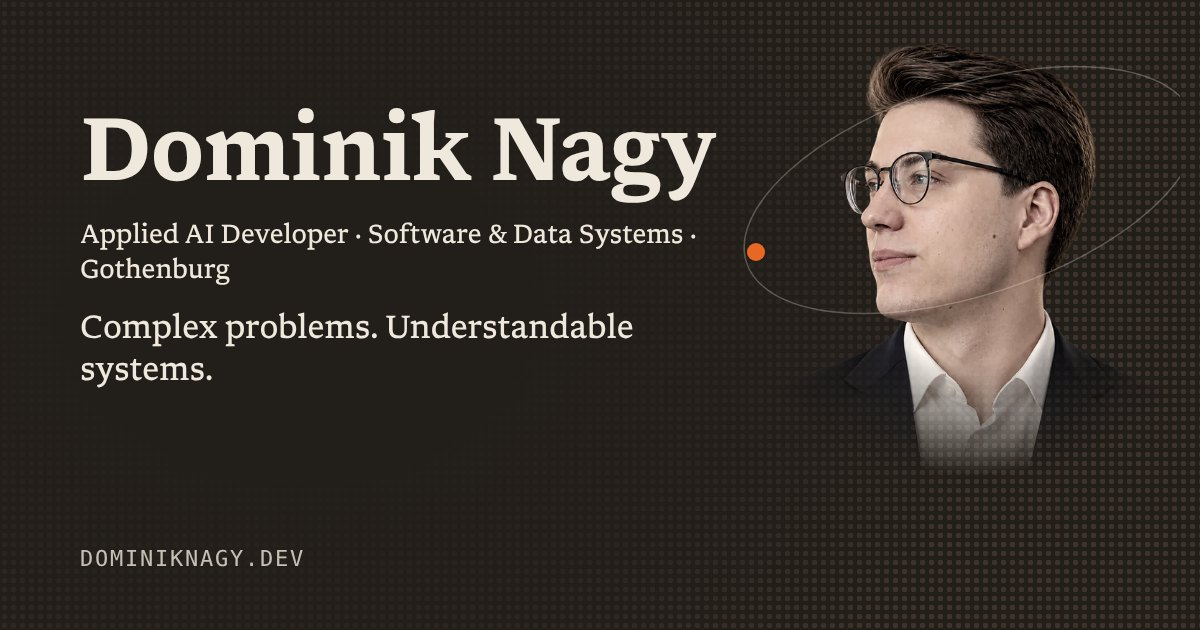
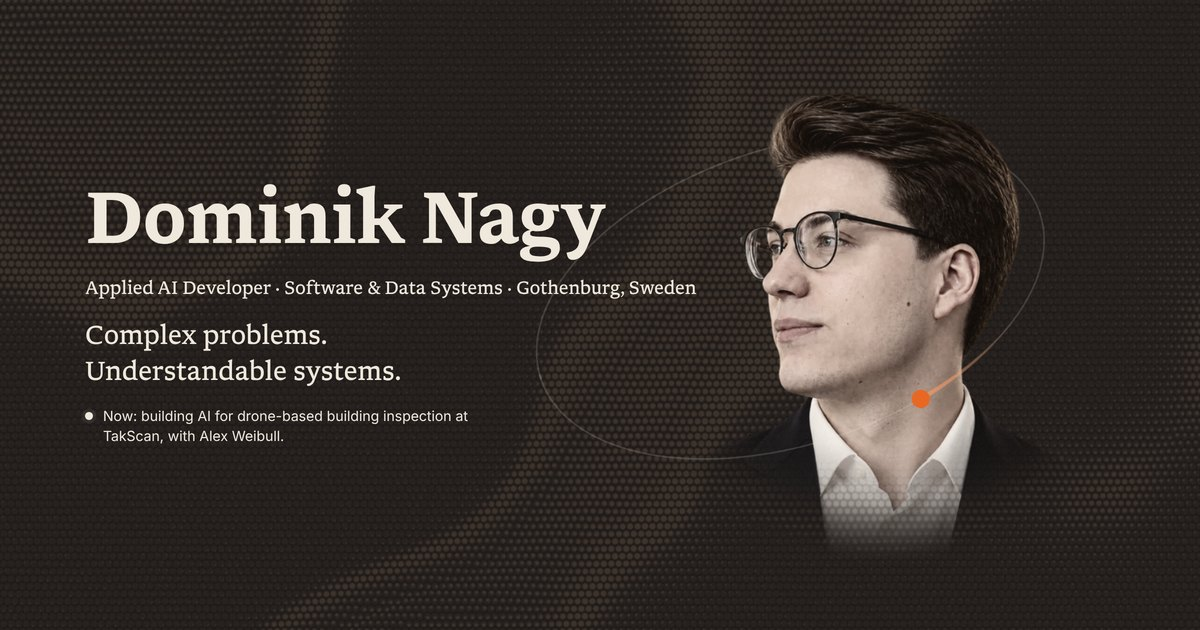
Add Hungarian, three-language switch and real hero share cards
- Hungarian locale at /hu/ with full home and case study translations
- EN/SV/HU language switch, hreflang alternates and sitemap entries
- Share cards rendered from the live hero (ink field, orbit trail, depth)
- Icon-only theme and pause buttons on narrow screens

Claude-Session: https://claude.ai/code/session_01H4Mz4xj1vCx7VJeMs2FG74

diff --git a/src/i18n/work.ts b/src/i18n/work.ts
@@ -204,8 +204,100 @@ const sv: CaseStudy[] = [
   },
 ];
 
-export const work: Record<Lang, CaseStudy[]> = { en, sv };
+const hu: CaseStudy[] = [
+  {
+    key: "inspection",
+    kind: "Most épül · TakScan · Bizalmas pilotprojekt",
+    title: "MI-támogatott épületvizsgálat",
+    lead: "A TakScan drónokkal dokumentálja az épületeket, felismeri a károkat, és helyzettel, mérettel és prioritással jelöli az eltéréseket, hogy a tulajdonosok időben léphessenek, és megelőzzék a nagyobb bajt. Én azt az MI-rendszert építem, amely a légi felvételeket vizsgáló szakértőket támogatja. Az MI segít, a szakértő dönt.",
+    notice: "Ez egy bizalmas pilotprojekt. Az alábbiak azt írják le, hogyan dolgozom rajta, nem azt, hogy mi épül. Személyesen, amennyire a titoktartás engedi, többet is elmondok.",
+    sections: [
+      { title: "A projekt", blocks: [{ type: "p", text: "A munka a teljes láncot lefedi, az érzékeny felvételek felelős kezelésétől a szakértők által naponta használt szoftverig, és most egy strukturált ellenőrzési szakaszba lép. Alex Weibull-lal együtt építem a TakScannél (Riventify AB)." }] },
+      { title: "Öt alapelv", blocks: [{ type: "cards", items: [
+        ["Ember a folyamatban", "Az MI segít, a szakértő dönt. Amit a rendszer javasol, az addig nem számít, amíg egy ember jóvá nem hagyta."],
+        ["Bizonyíték a feltételezés helyett", "Az eszközöket és módszereket az alternatívák egymás melletti tesztelésével választom, nem hírnév vagy divat alapján."],
+        ["Átláthatóság a bizonytalanságról", "A rendszer megmutatja, mennyire biztos, ahelyett hogy egyetlen válasz mögé rejtené a kételyt."],
+        ["Beépített adatvédelem", "Az érzékeny felvételek és ügyféladatok ellenőrzött, helyi környezetben maradnak, és sosem kerülnek a kód mellé."],
+        ["Kevesebbet építeni, többet újrahasznosítani", "A bevált nyílt forrású elemek előbb jönnek, mint az egyedi infrastruktúra, így az energia arra megy, ami valóban új."],
+      ] }] },
+      { title: "Hogyan szervezem a munkát", blocks: [{ type: "list", items: [
+        "Minden nagyobb változás egy leírt, dátumozott tervvel kezdődik: a cél, a lehetőségek, a kockázatok, és hogy mit érint. Amíg a tervet nem hagyják jóvá, semmi sem változik.",
+        "A rendszer jól elhatárolt részekre oszlik, világos szabályokkal arról, mi hova tartozik, így minden rész önállóan tesztelhető és cserélhető.",
+        "Semmi sem törlődik véglegesen. A kivezetett munka archívumba kerül, minden eltávolítás naplózva van, és bármelyik korábbi állapot visszaállítható.",
+        "A dokumentáció is eredmény: útmutatók, gyorsindítók, átadási jegyzetek és döntési feljegyzések, hogy bárki ott folytathassa, ahol a munka megállt.",
+        "Ha a munka szünetel, előbb leírom az ellenőrzött állapotot és a következő lépéseket.",
+        "A döntéseket az indoklásukkal együtt rögzítem, így a későbbi változtatások tudatosak, nem véletlenek.",
+        "Ami pénzbe kerül, közös erőforrást érint vagy nem visszafordítható, ahhoz kifejezett jóváhagyás kell.",
+      ] }] },
+      { title: "Okos költés", blocks: [{ type: "list", items: [
+        "A fizetős szolgáltatások keretet jelentenek, és csak ott használom őket, ahol valódi különbséget hoznak. Minden más helyben fut.",
+        "Amiért fizettünk, azt nem dobjuk ki. Az eredményeket megőrizzük és újrahasznosíthatóvá tesszük.",
+        "A napi munka elfut egy laptopon is; a nehéz feladatok erősebb gépre költözhetnek, de nem függnek tőle.",
+        "Minden összehasonlítás a pontosság mellett az időt és a költséget is mérlegeli, így a kompromisszumok láthatók.",
+      ] }] },
+      { title: "Minőségi elvárások", blocks: [{ type: "list", items: [
+        "Minden eredmény visszavezethető a szoftver, a szabályok és az adatok pontos verziójára, amelyek előállították.",
+        "A kód, a definíciók, a szabályok és az átnézett rekordok mind verziózottak, és a korábbi verziók megmaradnak.",
+        "A gépi javaslatok és az ember által megerősített tények sosem keverednek.",
+        "Automatizált tesztek fedik az adatokat és rekordokat kezelő részeket, ahol a hibákat később a legnehezebb megtalálni.",
+        "A fontos rekordokról minden írás előtt mentés készül, a beérkező anyagot pedig érkezéskor ellenőrizzük és naplózzuk.",
+        "A külső elemeknél bevezetés előtt ellenőrzöm, hogy a licencük megengedi-e a kereskedelmi felhasználást.",
+        "Kérem, hogy a saját ötleteimet is megkérdőjelezzék, és irányt váltok, ha a bizonyítékok ezt mutatják.",
+      ] }] },
+      { title: "MI-ágensek irányítása csapatként", blocks: [{ type: "p", text: "Az MI-alapú kódoló ágenseket fejlesztőcsapatként irányítom, állandó szabályokkal az adatvédelemről, a törlésekről, a jóváhagyásokról és a dokumentációról. Így egyetlen ember is vihet egy ekkora projektet, miközben minden döntés a kezében marad." }] },
+    ],
+    limits: { title: "Ami bizalmas marad", text: "A műszaki terv, az adatok, a módszerek és az eredmények. Ez az oldal csak a munkamódszert írja le." },
+    closing: "Ugyanezek a szabályok építették az oldalt, amit most olvasol: indoklással leírt döntések, újrahasznosítás az újrafeltalálás előtt, és őszinteség arról, ami még nincs bizonyítva.",
+  },
+  {
+    key: "feedback",
+    kind: "Kiemelt · v0.2.0",
+    title: "Feedback Intelligence",
+    lead: "Az ügyfélvisszajelzések gyorsabban gyűlnek az értékelésekben és hozzászólásokban, mint ahogy egy csapat el tudja olvasni őket, egy MI-összefoglalóban pedig nehéz megbízni, ha nem látod, miért mondja, amit mond. A Feedback Intelligence osztályozza a visszajelzéseket, és minden döntést visszavezethetővé tesz a bizonyítékáig.",
+    sections: [
+      { title: "Amit építettem", blocks: [{ type: "list", items: [
+        "Helyi munkafelület, amely értékeléseket és hozzászólásokat importál.",
+        "Osztályozás kulcsszavas szabályokkal vagy csatlakoztatott MI-modellel, futásonként választva.",
+        "Minden döntés az eredetével együtt tárolódik, így bármelyik eredmény visszakövethető a szövegig, amely kiváltotta.",
+      ] }, { type: "figure", src: "/img/fi/fi-overview.webp", alt: "A Feedback Intelligence áttekintő nézete az Orbital Clarity Szén témájában: választó egy helyi nyílt modell, egy szabályalapú alapvonal és egy MI-referencia között, az aktuális adatkészlet és verzió, valamint szűrők.", caption: "Az áttekintés. Válaszd ki, melyik módszer döntéseit nézed, aztán szűrj. Szintetikus bemutatóadatok." }] },
+      { title: "Hogyan működik", blocks: [{ type: "flow", items: ["Import", "Szabályok vagy MI", "Döntések eredettel", "Elemzés", "Áttekintő felület"] }, { type: "figure", src: "/img/fi/fi-signal.webp", alt: "Jelzésoldal, ahol a késedelmes szállítások aránya időben narancssárga vonalként látszik egy szaggatott átlag mellett, fölötte a legutóbbi érték, az átlag és a tartomány.", caption: "Egy jelzés időben. Minden pont megnyitja a mögötte álló rekordokat." }] },
+      { title: "Amit eldöntöttem, és miért", blocks: [{ type: "list", items: [
+        "Tartós feladatok és kimenő sor (outbox), hogy egy újraindítás se veszítsen el munkát, és egy export se menjen ki kétszer.",
+        "Hozzájárulás minden külső MI-hívás előtt, hogy egyetlen visszajelzés se hagyja el a gépet világos döntés nélkül.",
+      ] }] },
+      { title: "Bizonyíték", blocks: [{ type: "p", text: "Egy 10 000 rekordos futás túlélte a feldolgozó újraindítását, és minden export megvolt. A kiadási áttekintés, a tesztek és a bemutató a repóban vannak." }, { type: "figure", src: "/img/fi/fi-evaluation.webp", alt: "Kiértékelő táblázat, amely egy helyi nyílt modellt, egy általános nyelvi modellt és egy szabályalapú alapvonalat hasonlít össze futási állapot, sikeres rekordok, hibák, témapontosság és makro-F1 szerint, MI-referenciaként jelölve, nem emberi etalonként.", caption: "A modellek összehasonlítása, őszintén címkézve: MI-referenciához mérve, nem emberi címkékhez." }] },
+    ],
+    links: [["Repó a GitHubon", "https://github.com/Xentiles/feedback-intelligence"]],
+    limits: { title: "Amit ez még nem bizonyít", text: "Az MI pontosságát valódi ügyféladatokon. Az eddigi tesztek szintetikus adatokat használnak, és mért üzleti hatás még nincs." },
+  },
+  {
+    key: "notchq",
+    kind: "Natív macOS · Béta",
+    title: "NotchQ",
+    lead: "Ha MI-alapú kódolóeszközökkel dolgozol, és egy feladat közepén elfogy a keret, az megtöri a lendületet, és ha meg akarod nézni, mennyi maradt, ki kell lépned abból, amit csinálsz. A NotchQ szem előtt tartja.",
+    sections: [
+      { title: "Amit építettem", blocks: [{ type: "list", items: [
+        "Natív Swift és AppKit segédprogram, amely a Mac kameranyílása mellett ül.",
+        "A hátralévő Codex- és Claude-keret, és hogy mikor áll vissza.",
+        "Mennyire friss minden adat, hogy sose egy elavult szám alapján dönts.",
+      ] }] },
+      { title: "Hogyan működik", blocks: [{ type: "flow", items: ["Használat beolvasása", "Visszaállások követése", "Frissesség jelzése", "Kijelzés a nyílás mellett"] }] },
+      { title: "Amit eldöntöttem, és miért", blocks: [{ type: "list", items: [
+        "Natív alkalmazás webes csomagoló helyett, hogy a kameranyílás mellett élhessen és könnyű maradjon.",
+        "Aláírt, alkalmazáson belüli frissítések, hogy a bétatesztelők újratelepítés nélkül kapják meg a javításokat.",
+        "Helyreállás alvás és ébredés után, mert egy laptopos segédprogram az élete felét alvó gépen tölti.",
+      ] }] },
+      { title: "Bizonyíték", blocks: [{ type: "p", text: "Aláírt alkalmazáson belüli frissítések, helyreállás alvás és ébredés után, és fixture-tesztek a feldolgozáshoz." }] },
+    ],
+    links: [["Repó a GitHubon", "https://github.com/Xentiles/NotchQ"]],
+    media: { mp4: "/media/notchq-demo.mp4", webm: "/media/notchq-demo.webm", poster: "/media/notchq-poster.jpg", alt: "A NotchQ egy MacBookon: két kis százalékérték a kameranyílás mellett a Codexhez és a Claude Code-hoz, egy menü a visszaállási időkkel és a beállítások ablaka.", caption: "A NotchQ bemutatóklipje. Az értékek illusztratívak." },
+    limits: { title: "Amit ez még nem bizonyít", text: "A működést Intel-alapú Maceken és régebbi macOS-verziókon, ezeket még nem ellenőriztem." },
+  },
+];
+
+export const work: Record<Lang, CaseStudy[]> = { en, sv, hu };
 export const workUi = {
   en: { back: "Back to all work", next: "Next project", label: "Case study" },
   sv: { back: "Tillbaka till alla projekt", next: "Nästa projekt", label: "Fallstudie" },
+  hu: { back: "Vissza az összes munkához", next: "Következő projekt", label: "Esettanulmány" },
 } as const;

diff --git a/src/i18n/home.ts b/src/i18n/home.ts
@@ -1,9 +1,10 @@
-// Words for the home page sections, English and Swedish side by side.
+// Words for the home page sections, English, Swedish and Hungarian side by side.
 import type { Lang } from "./strings";
 
 export const workSlugs = {
   en: { inspection: "/work/building-inspection/", feedback: "/work/feedback-intelligence/", notchq: "/work/notchq/" },
   sv: { inspection: "/sv/arbete/byggnadsinspektion/", feedback: "/sv/arbete/feedback-intelligence/", notchq: "/sv/arbete/notchq/" },
+  hu: { inspection: "/hu/munkak/epuletvizsgalat/", feedback: "/hu/munkak/feedback-intelligence/", notchq: "/hu/munkak/notchq/" },
 } as const;
 
 export const home = {
@@ -143,6 +144,75 @@ export const home = {
       eyebrow: "Kontakt",
       title: "Låt oss bygga något begripligt.",
       text: "Jag söker ett team som värdesätter nyfikenhet, tydlig kommunikation och arbete som går att granska och förbättra. Jag talar svenska, ungerska och engelska.",
+    },
+  },
+  hu: {
+    nav: { work: "Munkák", method: "Hogyan építek", research: "Kutatás", path: "Út", workshop: "Műhely", talk: "Kapcsolat" },
+    work: {
+      eyebrow: "Válogatott munkák",
+      title: "Nyitott problémáktól ellenőrizhető eredményekig.",
+      lead: "Amin most dolgozom, és két elejétől a végéig megépített projekt, leírt korlátaikkal együtt.",
+      now: {
+        kind: "Most épül · TakScan · Bizalmas pilotprojekt",
+        title: "MI-támogatott épületvizsgálat",
+        text: "A TakScan drónokkal dokumentálja az épületeket, felismeri a károkat, és helyzettel, mérettel és prioritással jelöli az eltéréseket, hogy a tulajdonosok időben léphessenek. Én azt az MI-rendszert építem, amely a szakértőket segíti a felvételek vizsgálatában, és minden következtetést egy ember hagy jóvá.",
+        principles: ["Ember a folyamatban", "Bizonyíték a feltételezés helyett", "Átláthatóság a bizonytalanságról", "Beépített adatvédelem", "Kevesebbet építeni, többet újrahasznosítani"],
+        cta: "Hogyan dolgozom rajta",
+      },
+      cards: [
+        { key: "feedback", kind: "Kiemelt · v0.2.0", title: "Feedback Intelligence", text: "Helyi munkafelület, amely értékeléseket és hozzászólásokat importál, kulcsszavas szabályokkal vagy csatlakoztatott MI-vel osztályozza őket, és minden döntést visszavezethetővé tesz a bizonyítékáig.", proof: "Egy 10 000 rekordos futás túlélte a feldolgozó újraindítását, és minden export megvolt.", cta: "Esettanulmány" },
+        { key: "notchq", kind: "Natív macOS · Béta", title: "NotchQ", text: "Swift és AppKit segédprogram, amely a Mac kameranyílása mellett mutatja a hátralévő Codex- és Claude-keretet, a visszaállás idejével és azzal, mennyire friss minden adat.", proof: "Aláírt alkalmazáson belüli frissítések, helyreállás alvás után, fixture-tesztek.", cta: "Esettanulmány" },
+      ],
+    },
+    method: {
+      eyebrow: "Hogyan építek",
+      title: "Keretek, terv, interfészek és tesztek, építés, ellenőrzés.",
+      lead: "Codexet, Claude-ot és helyi modelleket használok a felfedezéshez és a munka gyorsításához. Közben végig benne maradok: én irányítom a feladatokat, elolvasok minden változtatást, kijavítom a hibákat, és én felelek a döntésekért. A generált kód addig vázlat, amíg a tesztek és én egyet nem értünk.",
+      steps: [
+        ["Keretek", "Megérteni a problémát, és azt, hogyan néz ki a helyes eredmény."],
+        ["Terv", "Részekre bontani és felvázolni a képernyőket."],
+        ["Interfészek és tesztek", "A szerződésekben a kód előtt megállapodni."],
+        ["Építés", "Kis, átnézhető lépésekben megvalósítani."],
+        ["Ellenőrzés", "Tesztelni a hibás ágakat, és leírni a korlátokat."],
+      ],
+    },
+    research: {
+      eyebrow: "Kutatás",
+      title: "Context-Based Image Learning",
+      text: "Alapszakos szakdolgozatom, társszerzővel írva, a Halmstadi Egyetem kiadásában. Egy visszakövethető gépi látási folyamatot építettünk, amely vizuális fogalmak könyvtárát tanulja meg, és újra felhasználja őket.",
+      stats: [["79 721", "kiértékelt megfigyelés"], ["95,54%", "arányban egy meglévő leírót használt újra"]],
+      grade: "Érdemjegy: 5 az 5-ből.",
+      link: ["A szakdolgozat a DiVA-ban", "https://urn.kb.se/resolve?urn=urn:nbn:se:hh:diva-59395"],
+      tools: "PyTorch · bináris autoencoder · SQLite · Hamming-távolság alapú egyeztetés",
+    },
+    path: {
+      eyebrow: "Út",
+      title: "Hogyan jutottam ide.",
+      lead: "Hardverrel és hálózatokkal kezdtem, megtanultam tanítani, alkalmazott MI-t tanultam, és közben olyan munkám volt, ahol mindennek időben működnie kell.",
+      items: [
+        ["Most", "TakScan", "MI drónos épületvizsgálathoz, Alex Weibull-lal"],
+        ["2025–2026", "Gaddr, MI-nagykövet", "Munkafolyamat- és ágensprototípusokat építettem, és csapatokat tanítottam a generatív MI felelős használatára"],
+        ["2025", "HighFive Innovationsarena", "Sprintalapú adatbányászati projekt, az adattisztítástól az ajánlásokig"],
+        ["2023–2026", "Halmstadi Egyetem", "Adattudomány, alkalmazott MI: gépi tanulás, mélytanulás, elosztott MI, adatbázisok"],
+        ["2024–2026", "Hotel Tylösand", "Nyáron logisztika, egész évben bankettszolgálat. Aminek időben működnie kell"],
+        ["2023", "Gothia Cup és Partille Cup", "Élő kamerafeedek üzemben tartása a torna pályáin"],
+        ["2022–2024", "Fryshuset", "Fiataloknak tanítottam kreatív kódolást és MI-alapú képeszközöket"],
+        ["2020–2023", "Thoren Innovation School", "Informatika szak: programozás, web, 3D játékok, hardver, hálózatok"],
+      ],
+    },
+    workshop: {
+      eyebrow: "Műhely",
+      title: "Amit kíváncsiságból építek.",
+      items: [
+        ["OSFR", "Renderelési kutatás Unityben: shaderötletek tesztelése mérésekkel."],
+        ["Mining Turtle", "Lua-automatizálás egy Minecraft-robothoz, útvonaltervezéssel és távoli állapotjelzéssel."],
+        ["Orbital Clarity", "A saját designstílusom egy csomagba gyűjtve: az elvek, a tinta, a pálya és a mozgás ezen az oldalon. A betűtípus a Libron, Nico Verbruggen munkája."],
+      ],
+    },
+    talk: {
+      eyebrow: "Kapcsolat",
+      title: "Építsünk valami érthetőt.",
+      text: "Olyan csapatot keresek, amely értékeli a kíváncsiságot, a világos kommunikációt és az ellenőrizhető, továbbfejleszthető munkát. Svédül, magyarul és angolul beszélek.",
     },
   },
 } satisfies Record<Lang, unknown>;

diff --git a/src/i18n/strings.ts b/src/i18n/strings.ts
@@ -1,9 +1,13 @@
-// All visible words live here, English and Swedish side by side, so the two versions never drift apart.
-export const languages = { en: "English", sv: "Svenska" } as const;
+// All visible words live here, English, Swedish and Hungarian side by side, so the versions never drift apart.
+export const languages = { en: "English", sv: "Svenska", hu: "Magyar" } as const;
 export type Lang = keyof typeof languages;
+export const langs = ["en", "sv", "hu"] as const satisfies readonly Lang[];
+export const homePath: Record<Lang, string> = { en: "/", sv: "/sv/", hu: "/hu/" };
+export const ogLocale: Record<Lang, string> = { en: "en_GB", sv: "sv_SE", hu: "hu_HU" };
 
 export const strings = {
   en: {
+    name: "Dominik Nagy",
     title: "Dominik Nagy · Applied AI Developer",
     description: "Dominik Nagy turns complex problems into understandable systems. Applied AI, software and data systems, based in Gothenburg, Sweden.",
     skip: "Skip to content",
@@ -17,12 +21,11 @@ export const strings = {
     open: "Open to full-time roles in applied AI, automation and software.",
     built: "Built with Orbital Clarity",
     typeCredit: "Type: Libron by Nico Verbruggen",
-    otherLang: "Svenska",
-    otherLangShort: "SV",
-    otherLangLabel: "Läs på svenska",
+    langLabel: "Language",
     js: { copied: "Copied: ", toCharcoal: "Switch to Charcoal theme", toPaper: "Switch to Paper theme", charcoal: "Charcoal", paper: "Paper", pause: "Pause motion", resume: "Resume motion" },
   },
   sv: {
+    name: "Dominik Nagy",
     title: "Dominik Nagy · Utvecklare inom tillämpad AI",
     description: "Dominik Nagy gör komplexa problem till begripliga system. Tillämpad AI, mjukvara och datasystem, baserad i Göteborg.",
     skip: "Hoppa till innehållet",
@@ -36,9 +39,25 @@ export const strings = {
     open: "Öppen för heltidsroller inom tillämpad AI, automation och mjukvaruutveckling.",
     built: "Byggd med Orbital Clarity",
     typeCredit: "Typsnitt: Libron av Nico Verbruggen",
-    otherLang: "English",
-    otherLangShort: "EN",
-    otherLangLabel: "Read in English",
+    langLabel: "Språk",
     js: { copied: "Kopierad: ", toCharcoal: "Byt till temat Kol", toPaper: "Byt till temat Papper", charcoal: "Kol", paper: "Papper", pause: "Pausa rörelse", resume: "Återuppta rörelse" },
+  },
+  hu: {
+    name: "Nagy Dominik",
+    title: "Nagy Dominik · Alkalmazott MI-fejlesztő",
+    description: "Nagy Dominik összetett problémákból érthető rendszereket épít. Alkalmazott mesterséges intelligencia, szoftver- és adatrendszerek, Göteborgból.",
+    skip: "Ugrás a tartalomra",
+    role: "Alkalmazott MI-fejlesztő · Szoftver- és adatrendszerek · Göteborg, Svédország",
+    thesis: "Összetett problémák. Érthető rendszerek.",
+    now: "Most: mesterséges intelligenciát építek drónos épületvizsgálathoz a TakScannél, Alex Weibull-lal.",
+    portraitAlt: "Nagy Dominik profilportréja, szemüvegben és sötétkék öltönyben",
+    hubLabel: "Máshol is megtalálsz",
+    contact: "Kapcsolat",
+    copyEmail: "E-mail-cím másolása",
+    open: "Teljes munkaidős pozíciót keresek alkalmazott MI, automatizálás és szoftverfejlesztés terén.",
+    built: "Orbital Clarity stílusban készült",
+    typeCredit: "Betűtípus: Libron, Nico Verbruggen",
+    langLabel: "Nyelv",
+    js: { copied: "Kimásolva: ", toCharcoal: "Váltás Szén témára", toPaper: "Váltás Papír témára", charcoal: "Szén", paper: "Papír", pause: "Mozgás szüneteltetése", resume: "Mozgás folytatása" },
   },
 } as const;

diff --git a/src/styles/site.css b/src/styles/site.css
@@ -192,6 +192,12 @@ footer { font: 400 12px/18px var(--font-mono); letter-spacing: 0.04em; max-width
 
 @media (prefers-reduced-motion: reduce) { .now .pulse { animation: none; } }
 .chip.lang { text-decoration: none; }
+/* Language switch: one pill, three codes. The current language is lit with the accent underline. */
+.chip.langs { gap: 2px; padding: 3px; cursor: default; }
+.chip.langs:hover { transform: none; }
+.chip.langs a { display: inline-flex; align-items: center; min-height: 28px; padding: 0 9px; border-radius: 999px; color: var(--ink); text-decoration: none; font: 500 12px/18px var(--font-ui); letter-spacing: .04em; opacity: .7; transition: opacity 200ms ease, background-color 200ms ease; }
+.chip.langs a:hover { opacity: 1; background: var(--ink-wash); }
+.chip.langs a[aria-current="page"] { opacity: 1; background: var(--ink-wash); text-decoration: underline 2px var(--accent); text-underline-offset: 5px; }
 .hub-wrap { display: grid; gap: 12px; }
 .open { margin: 0; font: 400 13px/20px var(--font-ui); opacity: .82; }
 .site-foot { display: flex; flex-wrap: wrap; gap: 8px 16px; justify-content: space-between; align-items: baseline; border-top: 1px solid var(--ink-soft); padding-top: 16px; max-width: none; }
@@ -202,9 +208,13 @@ footer { font: 400 12px/18px var(--font-mono); letter-spacing: 0.04em; max-width
 .stack { display: grid; gap: 64px; }
 @media (max-width: 720px) { .stack { gap: 48px; } }
 .chip.lang .short { display: none; }
+/* Pause: two bars while moving, a play triangle while paused. Shown alone on narrow screens. */
+.pause-icon { display: none; width: 10px; height: 12px; border-left: 3px solid currentColor; border-right: 3px solid currentColor; }
+#pause[data-paused="true"] .pause-icon { width: 0; height: 0; border-left: 10px solid currentColor; border-right: 0; border-top: 6px solid transparent; border-bottom: 6px solid transparent; }
 @media (max-width: 520px) {
   .chip.lang .long { display: none; } .chip.lang .short { display: inline; }
-  .bar { flex-wrap: nowrap; } .bar-end { gap: 8px; flex-wrap: nowrap; } .bar .chip { padding: 6px 10px; }
+  #themeLabel, #pauseLabel { display: none; } .pause-icon { display: block; } #themeToggle, #pause { min-width: 36px; justify-content: center; }
+  .bar { flex-wrap: nowrap; } .bar-end { gap: 8px; flex-wrap: nowrap; } .bar .chip { padding: 6px 10px; } .bar .chip.langs { padding: 3px; } .chip.langs a { padding: 0 8px; }
   .mark { font-size: 12px; letter-spacing: .06em; white-space: nowrap; }
 }
 .now { align-items: flex-start; }

diff --git a/public/scripts/ink.js b/public/scripts/ink.js
@@ -605,7 +605,10 @@ void main(){
     toggle.setAttribute("aria-pressed", String(paper));
     toggle.setAttribute("aria-label", paper ? L.toCharcoal : L.toPaper);
     themeLabel.textContent = paper ? L.charcoal : L.paper;
-    pauseBtn.textContent = paused ? L.resume : L.pause;
+    const pauseText = paused ? L.resume : L.pause;
+    (document.getElementById("pauseLabel") || pauseBtn).textContent = pauseText;
+    pauseBtn.setAttribute("aria-label", pauseText);
+    pauseBtn.dataset.paused = String(paused);
     // Clips follow the same pause switch as the ink, and stay still for people who prefer reduced motion.
     document.querySelectorAll("video[data-loop]").forEach(v => { if (paused) v.pause(); else v.play().catch(() => {}); });
   }
